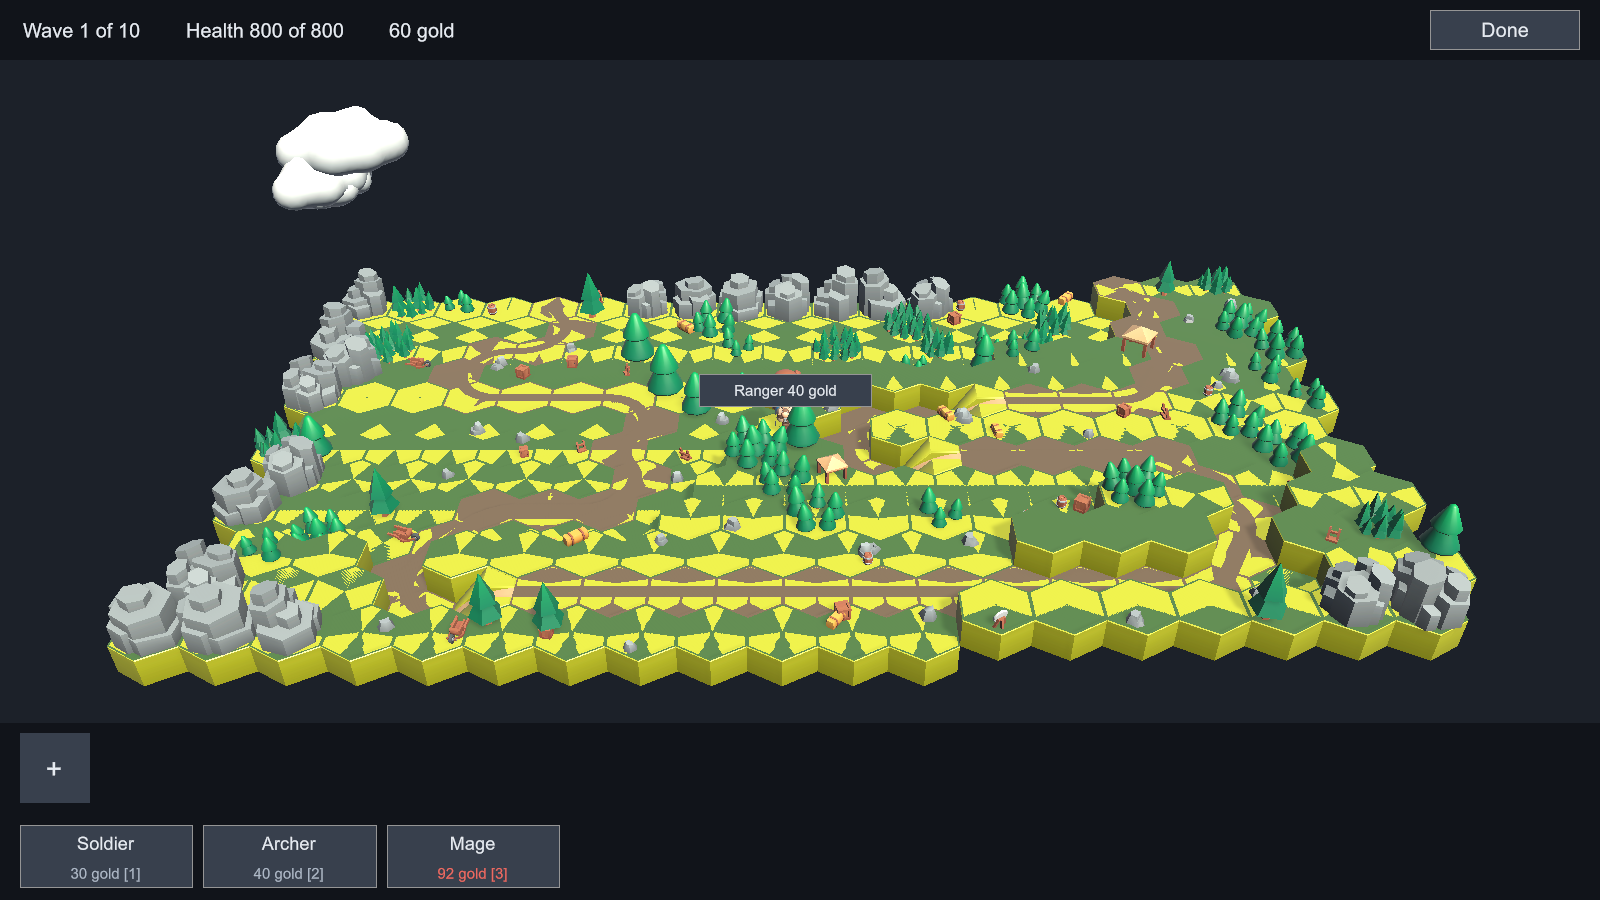
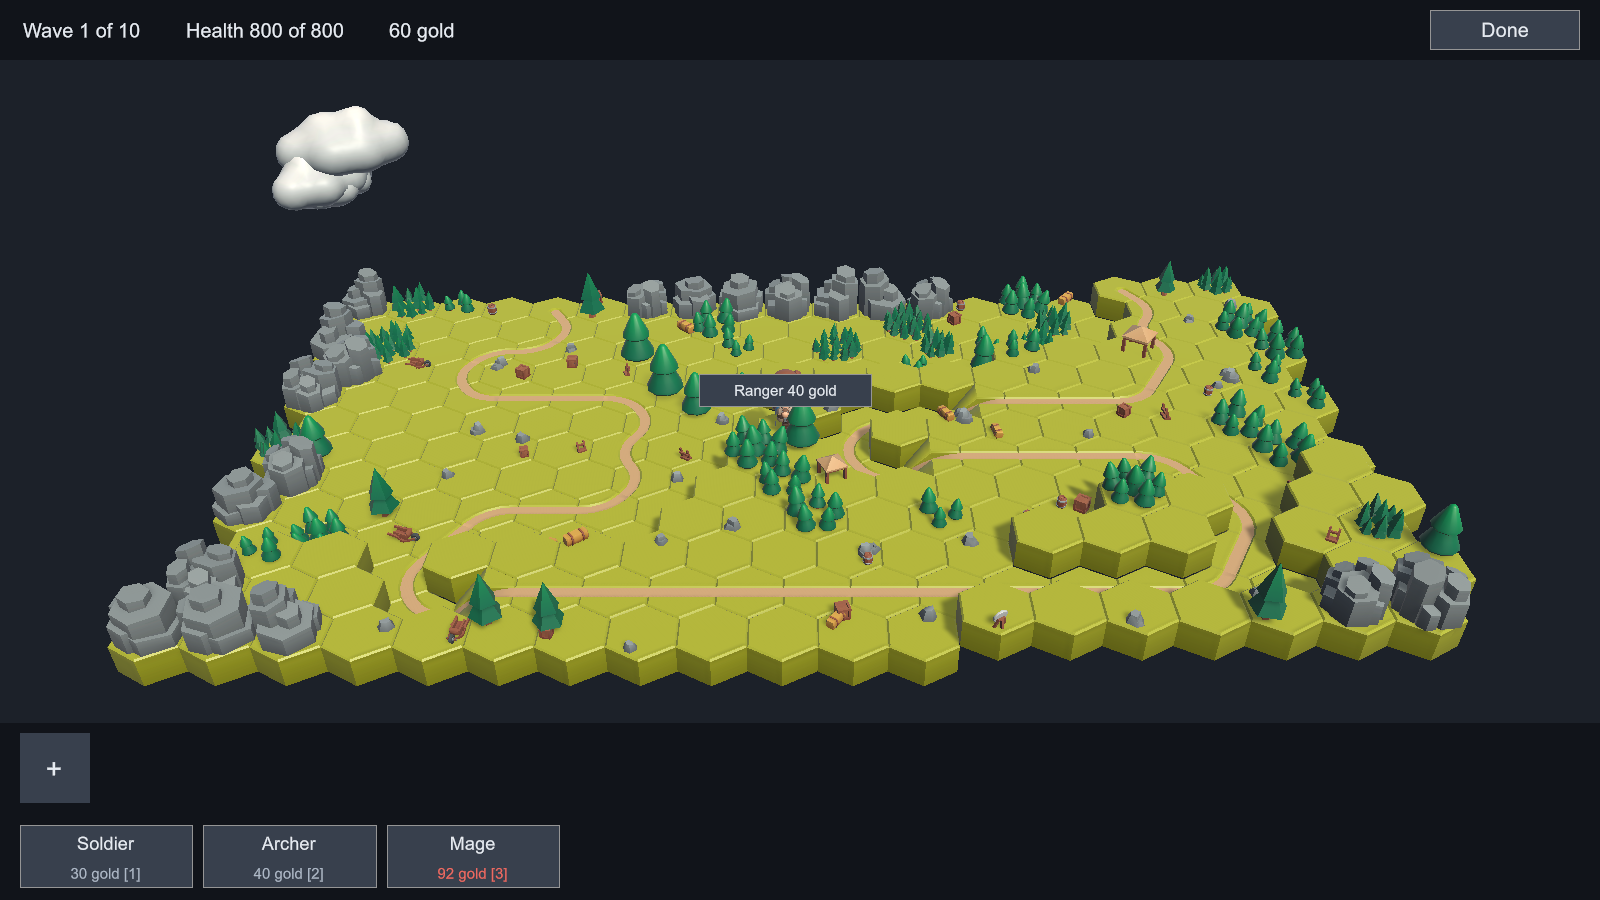
The chrome sheets were pictures of two boards, not of shadow acne
#240 asked whether a built player shows the chequerboard on the committed
chrome sheets. It does not: the player draws olive hex tops, cream paths and
real tree shadows. So it was the picture. It was also never shadow acne --
forcing the sun's shadows off left the pattern completely unchanged.

The board was being drawn twice. MatchRoot.Awake builds a playfield the moment
the component exists, which in play mode is the moment AddComponent returns,
before the caller can say anything about tiles -- so it builds the generated
blockout. UiPreviewCapture then calls Build with the real tiles, and Build
ADDED a second floor rather than replacing the first. Two floors at one height
z-fight into a chequerboard of triangles in two materials, and the brown paths
in the old sheets are the blockout's Road material rather than the atlas's
cream one. Build also built a second sun, so the board was lit twice, which is
why those sheets are hotter as well as chequered.

The match frames were clean for the wrong reason: Awake does not run in an
edit-mode editor, so the same code built once there.

Build now retires the previous floor, sun and camera rig first. Retire destroys
immediately when there is no play mode to defer to, because an editor tool
calls Build too, and it deactivates before destroying because a deferred
Destroy goes on drawing for the rest of a frame a capture can be reading. The
tile mesh is kept across a rebuild, since BuildBoard is handed it and outlives
the call.
[…]

Changed region(s): [[0.0625, 0.28, 0.9375, 0.7778], [0.1562, 0.1244, 0.25, 0.2489]]

diff --git a/client/Assets/View/MatchRoot.cs b/client/Assets/View/MatchRoot.cs
@@ -617,9 +617,17 @@ namespace View
         }
 
         /// <summary>
-        /// Takes one piece of chrome or one drawn thing off the screen now and
-        /// out of memory at the end of the frame.
+        /// Takes one piece of chrome or one drawn thing off the screen now, and
+        /// out of memory as soon as the engine allows.
         /// </summary>
+        /// <remarks>
+        /// <b>Deactivated first, and that is the half that has to happen now.</b>
+        /// A play-mode <c>Destroy</c> is deferred to the end of the frame it was
+        /// asked in, and that is a frame a capture can be reading. Outside play
+        /// mode there is no end of frame to defer to, so the destroy is
+        /// immediate — which is what lets an editor tool call
+        /// <see cref="Build"/> as well as a running game.
+        /// </remarks>
         private static void Retire(Component component)
         {
             if (component == null)
@@ -627,8 +635,17 @@ namespace View
                 return;
             }
 
-            component.gameObject.SetActive(false);
-            Destroy(component.gameObject);
+            GameObject host = component.gameObject;
+            host.SetActive(false);
+
+            if (Application.isPlaying)
+            {
+                Destroy(host);
+            }
+            else
+            {
+                DestroyImmediate(host);
+            }
         }
 
         /// <summary>
@@ -636,10 +653,25 @@ namespace View
         /// map, then the light, then the camera framed on the floor.
         /// </summary>
         /// <remarks>
+        /// <para>
         /// Public and taking the map rather than reading it, so a test can draw
         /// a floor from a map it wrote itself without a file being involved.
         /// The order matters in one place only: the camera is framed on bounds
         /// the floor reports, so the floor goes first.
+        /// </para>
+        /// <para>
+        /// <b>Building again replaces the playfield rather than adding a second
+        /// one, and that is a correctness matter.</b> <see cref="Awake"/> builds
+        /// as soon as this component exists — which in play mode is the moment
+        /// <c>AddComponent</c> returns — so an editor tool that adds the
+        /// component and then calls this with the real tiles was leaving the
+        /// blockout floor standing underneath, in the same place. Two floors at
+        /// one height z-fight into a chequerboard of triangles, and two suns
+        /// light the board twice. That is what the chrome sheets were pictures
+        /// of; the match frames were clean only because <c>Awake</c> does not
+        /// run in an edit-mode editor, so there the second build was the only
+        /// one. See #240.
+        /// </para>
         /// </remarks>
         public void Build(
             HexMap map,
@@ -648,8 +680,14 @@ namespace View
             DressingSettings settings = null,
             BoardDressing authored = null)
         {
+            ClearPlayfield();
+
             Map = map;
-            TileMesh = HexTileMesh.Create();
+
+            // Kept across a rebuild rather than made again. It is handed to
+            // BuildBoard, which outlives this call, so a fresh mesh here would
+            // leave that one drawing a destroyed one.
+            TileMesh = TileMesh != null ? TileMesh : HexTileMesh.Create();
 
             Floor = HexFloor.Build(
                 transform,
@@ -661,6 +699,21 @@ namespace View
 
             Sun = BuildSun(transform);
             CameraRig = OrbitCameraRig.Build(transform, Floor.WorldBounds);
+        }
+
+        /// <summary>
+        /// Takes down the floor, the sun and the camera a previous
+        /// <see cref="Build"/> left standing. Does nothing the first time.
+        /// </summary>
+        private void ClearPlayfield()
+        {
+            Retire(Floor);
+            Retire(Sun);
+            Retire(CameraRig);
+
+            Floor = null;
+            Sun = null;
+            CameraRig = null;
         }
 
         /// <summary>

diff --git a/client/Assets/Tests/PlayMode/PlayfieldRebuildTests.cs b/client/Assets/Tests/PlayMode/PlayfieldRebuildTests.cs
@@ -1,0 +1,87 @@
+using NUnit.Framework;
+using Sim;
+using UnityEngine;
+using View;
+
+namespace Tests.PlayMode
+{
+    /// <summary>
+    /// That building a playfield twice leaves one playfield.
+    /// </summary>
+    /// <remarks>
+    /// <para>
+    /// <b>Play mode is the whole point of this fixture.</b>
+    /// <see cref="MatchRoot.Awake"/> builds as soon as the component exists,
+    /// and in play mode that is the moment <c>AddComponent</c> returns — so
+    /// every editor tool that adds the root and then calls
+    /// <see cref="MatchRoot.Build(HexMap, TileSet, SceneryModels, DressingSettings, BoardDressing)"/>
+    /// with the real tiles is building twice. In an edit-mode editor
+    /// <c>Awake</c> does not run at all, so the same code builds once and the
+    /// fault is invisible. An edit-mode test could not see this.
+    /// </para>
+    /// <para>
+    /// <b>What it looked like when it was wrong.</b> Two floors at one height
+    /// z-fight, which draws the board as a chequerboard of triangles in two
+    /// materials, and two suns light it twice. It reached the committed chrome
+    /// sheets and read as shadow acne. See #240.
+    /// </para>
+    /// <para>
+    /// Counting only what is <em>active</em> is deliberate: a play-mode
+    /// <c>Destroy</c> is deferred to the end of the frame, so the retired
+    /// objects are still in the hierarchy while the test runs. Being off the
+    /// screen now is the property that matters, and it is the one asserted.
+    /// </para>
+    /// </remarks>
+    public sealed class PlayfieldRebuildTests : ViewTest
+    {
+        [Test]
+        public void BuildingAgainReplacesThePlayfieldRatherThanAddingASecond()
+        {
+            MatchRoot root = Playfield();
+
+            root.Build(Map());
+
+            Assert.That(Standing<HexFloor>(root), Is.EqualTo(1), "floors");
+            Assert.That(Standing<Light>(root), Is.EqualTo(1), "suns");
+            Assert.That(Standing<OrbitCameraRig>(root), Is.EqualTo(1), "camera rigs");
+        }
+
+        [Test]
+        public void ThePlayfieldLeftStandingIsTheOneBuiltLast()
+        {
+            MatchRoot root = Playfield();
+            HexFloor first = root.Floor;
+
+            Assume.That(first, Is.Not.Null, "Awake builds one before anything asks it to.");
+
+            root.Build(Map());
+
+            Assert.That(root.Floor, Is.Not.SameAs(first));
+            Assert.That(root.Floor.gameObject.activeInHierarchy, Is.True);
+            Assert.That(first == null || !first.gameObject.activeInHierarchy, Is.True, "the first floor is down");
+        }
+
+        /// <summary>
+        /// The tile mesh survives a rebuild, because <see cref="BuildBoard"/>
+        /// is handed it and outlives the call that made it.
+        /// </summary>
+        [Test]
+        public void TheTileMeshIsTheSameOneAfterARebuild()
+        {
+            MatchRoot root = Playfield();
+            Mesh first = root.TileMesh;
+
+            root.Build(Map());
+
+            Assert.That(root.TileMesh, Is.SameAs(first));
+        }
+
+        /// <summary>How many of a thing are drawn under the root right now.</summary>
+        private static int Standing<T>(MatchRoot root)
+            where T : Component =>
+            root.GetComponentsInChildren<T>(includeInactive: false).Length;
+
+        /// <summary>The shipped board, which is what the root builds by default.</summary>
+        private static HexMap Map() => StreamingContent.ReadMap();
+    }
+}

diff --git a/client/Assets/Tests/PlayMode/ViewTest.cs b/client/Assets/Tests/PlayMode/ViewTest.cs
@@ -52,10 +52,17 @@ namespace Tests.PlayMode
         protected MatchView Begin() => TheMatchOnScreen.Begin(Spawn(GetType().Name));
 
         /// <summary>
-        /// The scene's one root object, with nothing built on it yet — what a
-        /// fixture calls before <c>Build</c>, <c>BeginBuilding</c> or
-        /// <c>BeginRun</c>.
+        /// The scene's one root object — what a fixture calls before
+        /// <c>Build</c>, <c>BeginBuilding</c> or <c>BeginRun</c>.
         /// </summary>
+        /// <remarks>
+        /// <b>It comes back with a playfield already on it.</b> These are
+        /// play-mode tests, so <c>Awake</c> has run by the time
+        /// <c>AddComponent</c> returns, and <c>Awake</c> builds. A fixture that
+        /// goes on to call <c>Build</c> is rebuilding rather than building, and
+        /// that is why <c>Build</c> replaces the playfield rather than adding to
+        /// it; see <c>PlayfieldRebuildTests</c>.
+        /// </remarks>
         protected MatchRoot Playfield() =>
             Spawn(SceneFraming.RootObjectName).AddComponent<MatchRoot>();
 
